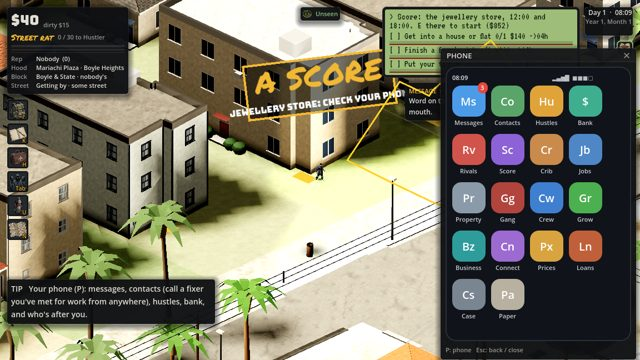
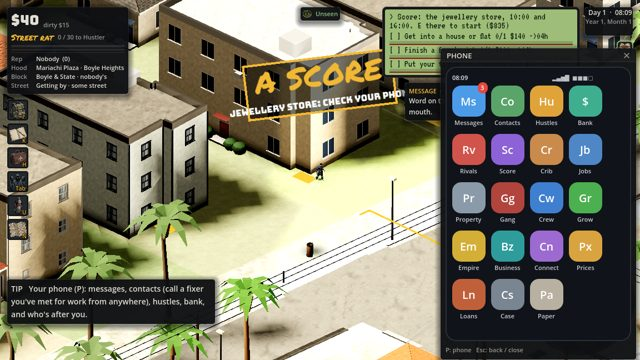
BZ7: the empire: on the map, on the phone, and under attack
Everything you own now shows on the city map (N) by what it is: $ a
shop, W/L/R/T/S a car wash, laundromat, restaurant, trucking company or
security firm, N a night spot, G a stolen-goods ring, D a gambling den,
P a flat you rent out. Places the police shut are faded, and a place a
rival hit says who did it.

A new Empire page on the phone: yesterday's money in and out, with a
bar for each source (shops, night spots, back rooms, the ring, dens,
loan repayments), staff and crew wages, your heat (case file, audit
risk, which rivals are hunting you), and every place you own with how
well it's guarded.

Owning things makes you a target. Each morning a rival lieutenant who
is hunting you (grudge at "hunting" or worse) may hit one of your
places: a shop or front loses its till and $300 of its bank, a night
spot is smashed up (a step of its fit-out gone, no take tonight), a
ring or den is robbed (no take tonight). You get his message and a
stamp, it makes the paper, and his grudge cools a little. A bouncer
there halves the risk, so does crew posted within 120 m, and your own
security firm cuts it by a third more.

Checks (targeted): new verify_empire PASS; venue, rackets, rackets2,
fronts, phase4 business, rivals, phone, map_fog, minimap, screen_map,
save, autosave PASS; album: new phone_empire, phone_home with the
Empire tile.

Claude-Session: https://claude.ai/code/session_01GhwX2iZQCrjFDTA2VqL7dk

diff --git a/docs/ROADMAP.md b/docs/ROADMAP.md
@@ -67,6 +67,7 @@ prints busts.
 - [x] BZ5 (part 1) loan sharking (Phone > Loans: lend at interest, daily repayments, collect / lean on / make an example), fake money (printing press, paper and ink, graded bills, pass for real change or sell to dealers), the chop shop (sell a stolen car parked outside); forgery skill
 - [x] BZ5 (part 2) a stolen-goods ring in a pawn shop you own (nightly dirty money, buys your loot at 70%), gambling dens in flats you own (nightly, no rent), gun crates from the connect (six pistols to sell to the gangs); raids shut rings and dens (a bouncer halves the risk)
 - [x] BZ6 the legal side: make a shop you own a car wash or laundromat (washes far more), restaurant (best on rich blocks), trucking company (imports half as often a sting) or security firm (fewer raids and fights); three upgrades for any shop (+25% takings each); rivals shown; a 15% weekly tax and IRS audits when you wash more than you earn
+- [x] BZ7 the empire: every place you own on the city map by what it is (shop, front, club, ring, den, flat; shut ones faded; who hit it); Phone > Empire with yesterday's money by source, wages, heat and how well each place is guarded; rivals hunting you hit your places at night (till robbed, club smashed, den or ring robbed), less with a bouncer, your security firm or crew nearby
 
 ## Indie mistakes we design against (Phil, 2026-11: "doesn't it look boring and repetitive?")
 
@@ -121,7 +122,7 @@ Each mistake below is checked against the game and owned by a batch.
 | BZ4 | ~~**The drug chain**~~ **done** · | Weed to pills (press) to a cook lab (a short cook mini-game, fire risk) to imports; your own corners, delivery, your clubs; prices by hood | 2-3 |
 | BZ5 | ~~**Big illegal side**~~ **done** (loans, fake money, chop shop, stolen-goods ring, gun running, gambling dens) · | Chop shop, counterfeit cash, fencing ring, gun running, loan sharking, gambling dens; laundering through your legal fronts with limits and audits | 3 |
 | BZ6 | ~~**Big legal side**~~ **done** (car wash, laundromat, restaurant, trucking, security firm; upgrades; taxes and audits) · | Car wash, laundromat, restaurant, shop chain, flats to rent, trucking, security firm; upgrades, competition, taxes and audits | 2-3 |
-| BZ7 | **Empire view** (proposed) | A map layer of everything you own, the daily ledger, raids and robberies by rivals on your places | 1 |
+| BZ7 | ~~**Empire view**~~ **done** · | A map layer of everything you own, the daily ledger, raids and robberies by rivals on your places | 1 |
 | FX1 | **Game feel** | Hit reactions and knockdowns, camera shake, muzzle flash, blood, slow-mo on a knockout, screen pulses on big moments | 1-2 |
 | LV1 | **Living streets** | People say things (barks), street events (fights, arrests, crashes, parties, dealers busted), more traffic, people with jobs you can see | 2 |
 | SK1 | **Skill moments** | Lockpicking, hotwiring, hold-ups, safe-cracking as short hands-on mini-games instead of menu lines | 2 |

diff --git a/debug/TESTS.md b/debug/TESTS.md
@@ -1,6 +1,6 @@
 # Tests (generated by tools/qa/index.py: do not edit by hand)
 
-128 checks.
+129 checks.
 
 
 Run one: `$G --headless --path . -s debug/verify_<name>.gd 2>&1 | tail -20`
@@ -166,7 +166,7 @@ In the game: Admin on (pause menu), F11, Tests tab: quick checks on a running ga
 | `render_palette` | Render check: both map palettes (day and night) have a colour for every road tier, every casing edge, sidewalks, kerbs and every area/building kind the city uses -- a missing key is a script error that stops the map drawing. |
 | `street_section` | MP2 validator: the street cross-section. Every street's sidewalk band splits into parkway + paving without losing or inventing width, LA has both kinds of street, and every feature on the band sits where it belongs: tree wells inside the band and never in a bu |
 
-## Other (25)
+## Other (26)
 
 | check | what it proves |
 |---|---|
@@ -178,6 +178,7 @@ In the game: Admin on (pause menu), F11, Tests tab: quick checks on a running ga
 | `crib` | CR1 validator: upgrading costs money and needs the rank; a Pad rests you faster; the Spot's safe halves what an arrest takes and its crew hangout raises loyalty each morning; the Stash house keeps a finished score as a trophy, keeps your name known, and cleans |
 | `drug_lab` | BZ4 validator: street drugs are two stars (old prices); the press turns powder into pills; a cook kept in the green makes top meth, one left alone catches fire (burn, case, stamp); imports need Soldier rank, take cash up front, wait at a warehouse in a window, |
 | `drugs` | DR1 validator: a safehouse makes what it is set to, at that recipe's cost and yield; C collects then switches; collecting gives that drug. |
+| `empire` | BZ7 validator: your places are listed and each says what it is (a shop, a car wash, a club, a den, a flat); nobody hunting you: no hits; a rival hunting you robs a shop's till (message, stamp, the map shows it) and his grudge cools a little; a smashed club los |
 | `fronts` | BZ6 validator: a shop you own becomes a front for clean money; a car wash washes far more; upgrades raise takings (x1.25 a step); rivals of the same trade nearby are counted; a restaurant does better on a rich block; the week's tax goes out of clean money; was |
 | `gigs` | RP2 validator: three legal gigs a morning; a delivery is picked up and dropped off for clean pay; a taxi fare needs a car and a licence; a licence costs money; driving without one where a cop sees you goes on your case; homes for sale near you are bought with  |
 | `grow` | BZ1 validator: gear goes up at home (tents capped by the crib); seeds go in; plants get thirsty, wilt and die if left; they ripen in two days and hang to dry; bagged weed carries stars (a shop light caps them, an HPS lamp, fan and food raise them) and your sta |

diff --git a/docs/CODEMAP.md b/docs/CODEMAP.md
@@ -208,6 +208,7 @@ One line per script: what it is for. Read the file only when you need it; find s
 | `economy_flow_system.gd` | EconomyFlowSystem | E2: runs the city's money day (EconomyFlow.run_day) once a game day, in the evening after the shops shut, on its own tick. |
 | `economy_read.gd` | EconomyRead | E5: what you can tell about a place by looking it over (casing it): rough words, never the exact sums. A home: well off, getting by or nearly broke, and whether it was hit lately. A shop: busy, quiet or struggling (or closed), and what security it has. Pure re |
 | `economy_system.gd` | EconomySystem | Phase 2 locked mechanics spec, made real: per-good price drift from demand/supply. (E2: tills no longer refill on their own; they fill from sales in EconomyFlow.) The backend core other Phase 2+ features (drug deals, odd jobs, robbery feedback) plug into -- th |
+| `empire_system.gd` | EmpireSystem | BZ7: your empire as a whole. What you own, what each place is (EmpireSystem.describe, for the city map and the phone), what it brought in yesterday (the Empire page), and the other side of owning things: rivals strike back. Each morning every rival lieutenant  |
 | `escalation_tick_system.gd` | EscalationTickSystem | Criminal Record Ladder, Phase 1 slice only: CLEAN <-> WARNED (tier 1), the "first-offense warning" tier the roadmap calls for this phase. Higher tiers (REPEAT_OFFENDER and up) and the whole Beef Ladder track are Phase 4's job -- no rival gangs exist yet to gen |
 | `exploration_system.gd` | ExplorationSystem | MP2: fog of war for the map. The city is a grid of CELL_M squares; the ones within REVEAL_M of you are explored for good (a bitset on PlayerStateData, saved). Street dealers and fixers you have actually seen are remembered by id, so the map can show them. Chec |
 | `fence.gd` | Fence | LT4: turning loot into money. A pawn shop (open hours) buys valuables at PAWN_SHARE of their worth in clean cash: it's a shop, there's a receipt. A dealer fences them for FENCE_SHARE, dirty, no questions. |

diff --git a/CHANGELOG.md b/CHANGELOG.md
@@ -5,6 +5,7 @@ Newest first. The in-game admin panel (F11, Bugs & updates) shows the top of it.
 
 ## 2026-11-17
 
+- BZ6: the legal side: fronts, upgrades, taxes and the IRS
 - BZ5b: a stolen-goods ring, gambling dens and gun running
 - BZ5: loan sharking, fake money and the chop shop
 - CA1 fix: the crew loyalty check uses loyal crew
